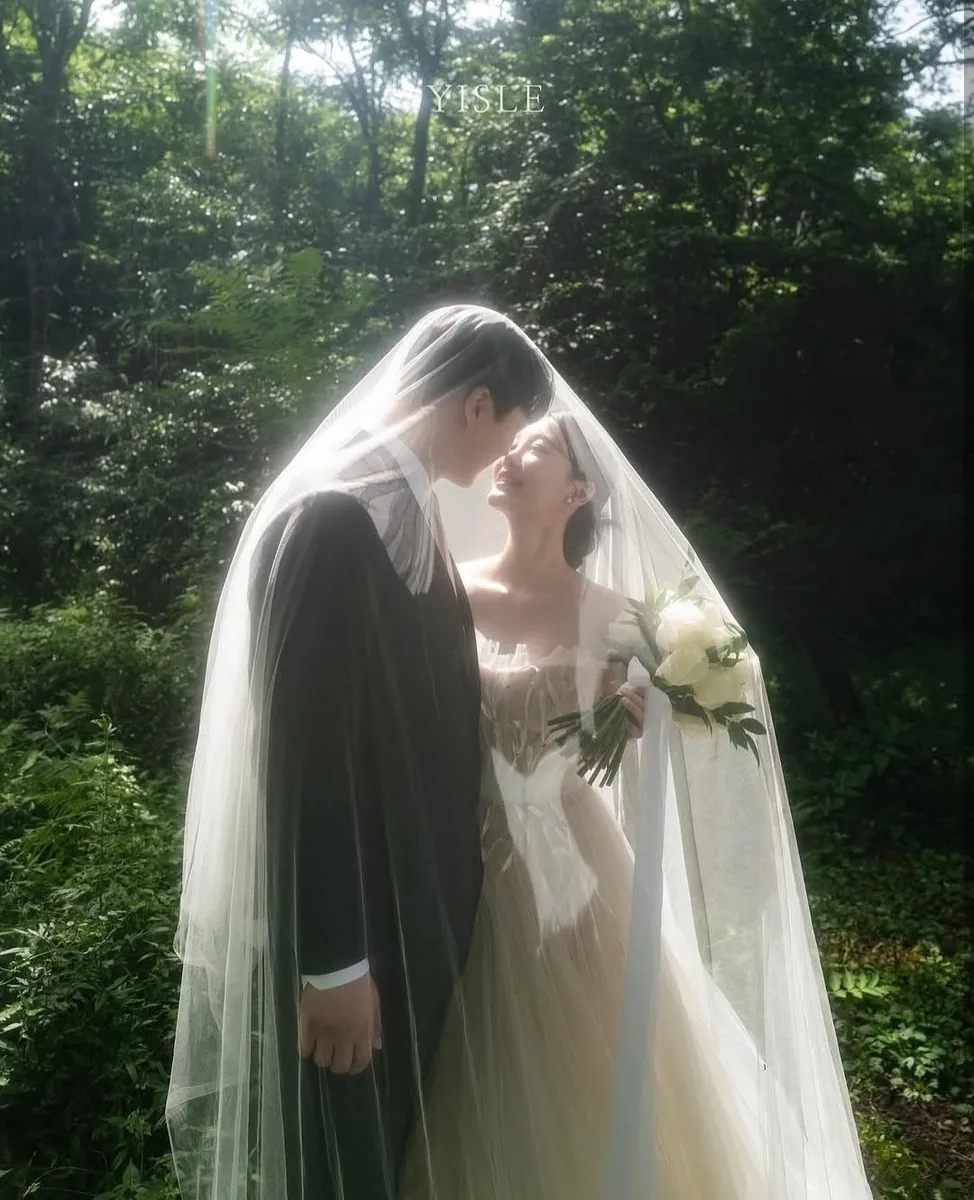
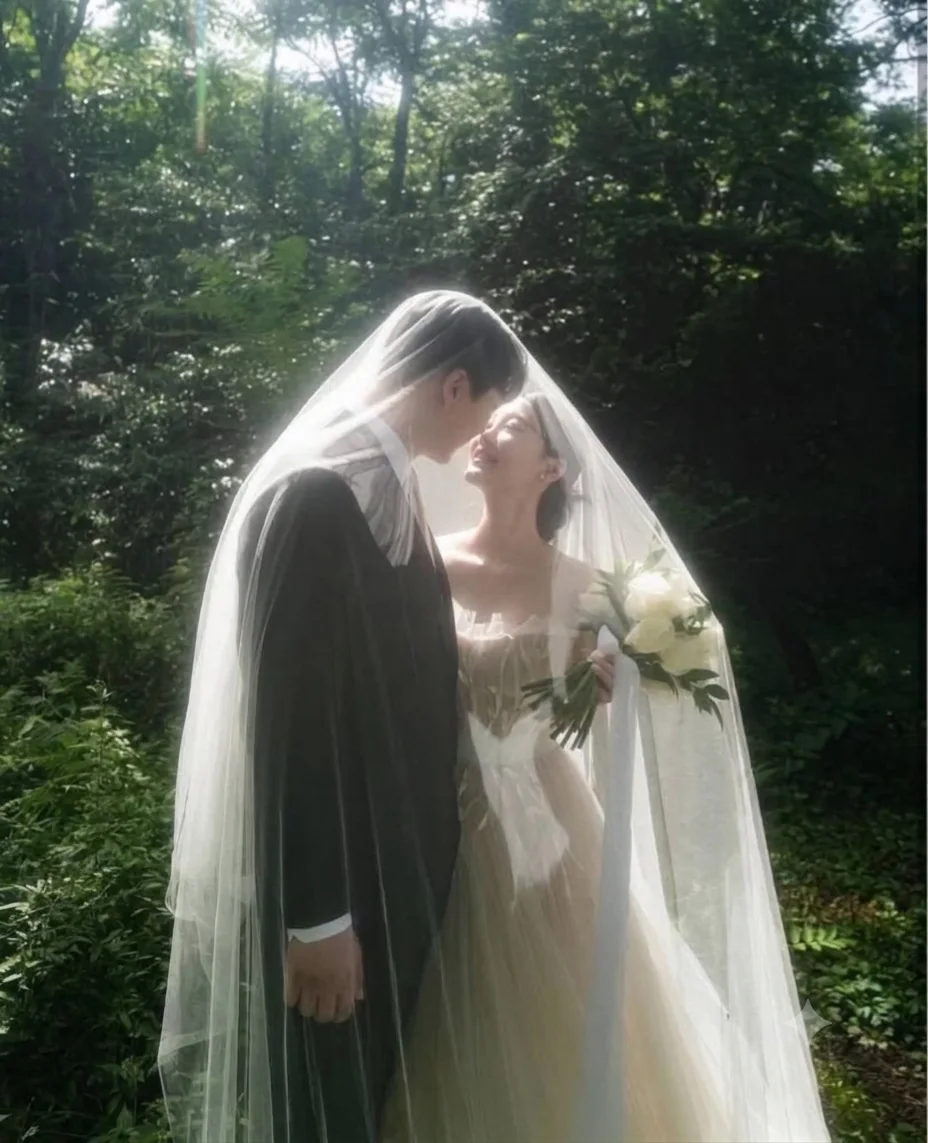
Mẫu 2: ảnh mở đầu đổi sang bản đã mua bản quyền (không chữ ký); cập nhật ảnh đại diện
Claude-Session: https://claude.ai/code/session_01V4RDDV9jqM6BBijw6Ese9L

diff --git a/docs/CREDITS.md b/docs/CREDITS.md
@@ -127,4 +127,5 @@ Cảnh lối vào qua các vòm hoa `gate-arches.webp`, chùm bóng bay `balloon
 
 ## Mẫu 2 · Nắng đồng hoa: ảnh cưới mẫu (`my-wed/src/static/t33/demo/`)
 
-Ảnh mở đầu (`cover.webp`, có chữ ký studio YISLE) , 4 ảnh gallery (`album1-4.webp`) và ảnh cuối thiệp (`destiny.webp`, cặp đôi cúi chào; đã cắt bỏ nút giao diện của app trong ảnh chụp màn hình) do chủ repo chọn từ Pinterest (ảnh chụp cưới của studio Hàn Quốc), **không có giấy phép sử dụng**. Chủ repo quyết định dùng làm ảnh minh hoạ cho thiệp mẫu. Nếu tác giả yêu cầu gỡ thì thay bằng ảnh có quyền dùng.
+- `cover.webp` (ảnh mở đầu, cặp đôi trùm khăn voan trong rừng): chủ repo cho biết **đã mua bản quyền** bản không chữ ký (20/11/2026).
+- `album1-4.webp` (gallery) và `destiny.webp` (ảnh cuối thiệp, cặp đôi cúi chào; đã cắt bỏ nút giao diện của app trong ảnh chụp màn hình): chủ repo chọn từ Pinterest (ảnh chụp cưới của studio Hàn Quốc), **chưa có giấy phép sử dụng**; chủ repo quyết định dùng làm ảnh minh hoạ. Nếu tác giả yêu cầu gỡ thì thay bằng ảnh có quyền dùng.
